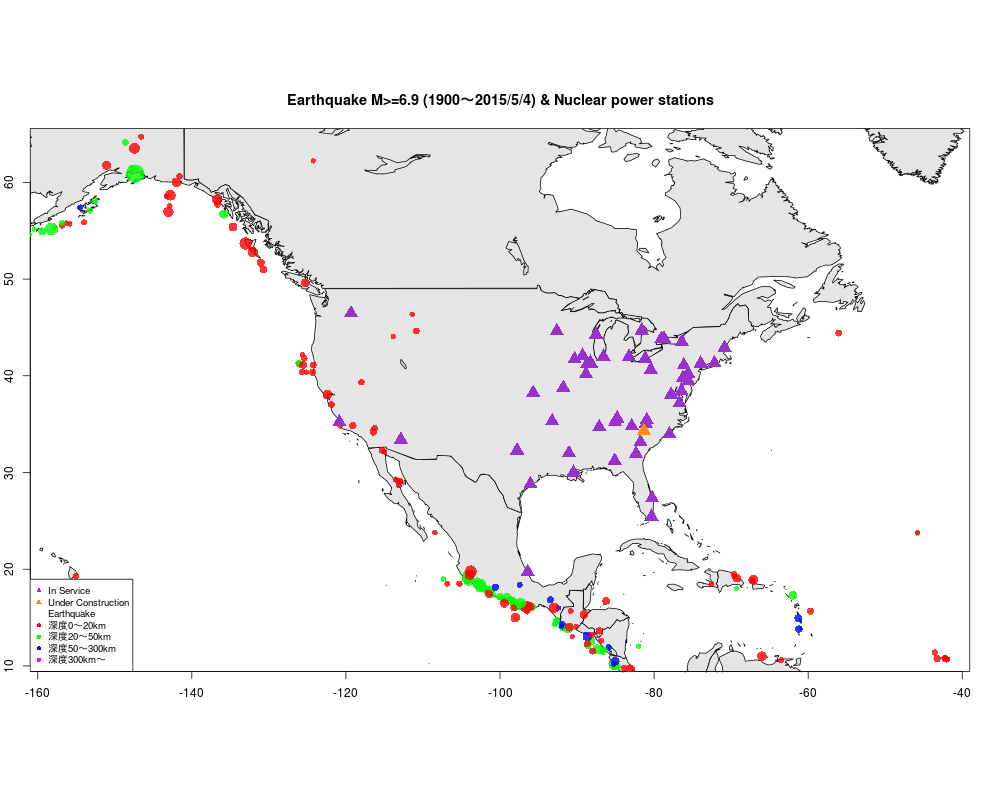
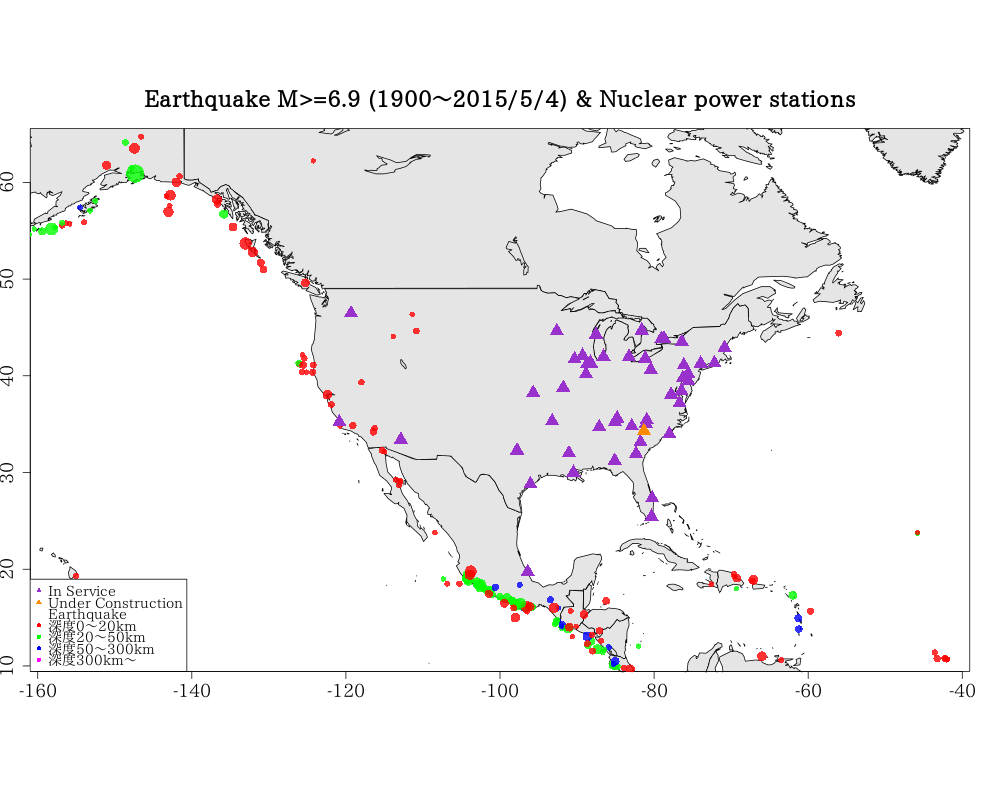
Site updated: 2015-05-05 15:26:43

diff --git a/2015/05/05/震源地と原子力発電所/index.html b/2015/05/05/震源地と原子力発電所/index.html
@@ -97,7 +97,7 @@
         <section id="main"><article id="post-震源地と原子力発電所" class="article article-type-post" itemscope itemprop="blogPost">
   <div class="article-meta">
     <a href="/2015/05/05/震源地と原子力発電所/" class="article-date">
-  <time datetime="2015-05-05T06:17:08.000Z" itemprop="datePublished">May 5 2015</time>
+  <time datetime="2015-05-05T06:25:41.000Z" itemprop="datePublished">May 5 2015</time>
 </a>
     
   <div class="article-category">
@@ -137,10 +137,10 @@
 <p><img src="/images/japaneq02.png" alt=""></p>
 <p>記事「震源地と原子力発電所2」にGMTを用いて範囲を狭く、M&gt;=6.0の地震をプロットした地図あり。</p>
 <p>表示する地域を変える </p>
-<figure class="highlight"><table><tr><td class="gutter"><pre><div class="line">1</div><div class="line">2</div><div class="line">3</div><div class="line">4</div><div class="line">5</div><div class="line">6</div><div class="line">7</div><div class="line">8</div><div class="line">9</div><div class="line">10</div><div class="line">11</div></pre></td><td class="code"><pre><div class="line"><span class="comment">#png("mapeq01.png",width=1000,height=800)</span></div><div class="line"><span class="built_in">map</span>(<span class="string">"worldHires"</span>,<span class="variable">xlim=</span>c(-<span class="number">160</span>,-<span class="number">40</span>),<span class="variable">ylim=</span>c(<span class="number">10</span>,<span class="number">65</span>),<span class="variable">col=</span><span class="string">"gray90"</span>,<span class="variable">fill=</span>TRUE)  </div><div class="line"><span class="built_in">map</span>.axes() </div><div class="line">points(eqdata$longitude,eqdata$latitude,<span class="variable">pch=</span><span class="number">16</span>,<span class="variable">cex =</span>eqdata$mag-<span class="number">5.9</span>, <span class="variable">col=</span>eqdata$col)  </div><div class="line">points(in_service$longitude,in_service$latitude,<span class="variable">pch=</span><span class="number">17</span>,<span class="variable">cex =</span><span class="number">2</span>, <span class="variable">col=</span><span class="string">"darkorchid"</span>)  </div><div class="line">points(under_construction$longitude,under_construction$latitude,<span class="variable">pch=</span><span class="number">17</span>,<span class="variable">cex =</span><span class="number">2</span>, <span class="variable">col=</span><span class="string">"darkorange"</span>)  </div><div class="line"><span class="comment">#points( -76.725177,40.153259,pch=4,cex=2,col="red")  #スリーマイル島</span></div><div class="line">title(<span class="variable">main=</span><span class="string">"Earthquake M&gt;=6.9 (1900～2015/5/4) & Nuclear power stations"</span>)   </div><div class="line">legend(<span class="string">"bottomleft"</span>,<span class="variable">legend =</span> c(<span class="string">"In Service"</span>,<span class="string">"Under Construction"</span>,<span class="string">"Earthquake"</span>,<span class="string">"深度0～20km"</span>,<span class="string">"深度20～50km"</span>,<span class="string">"深度50～300km"</span>,<span class="string">"深度300km～"</span>),  </div><div class="line"><span class="variable">cex=</span><span class="number">0.8</span>,<span class="variable">pch=</span>c(<span class="number">17</span>,<span class="number">17</span>,rep(<span class="number">16</span>,<span class="number">5</span>)),<span class="variable">col=</span>c(<span class="string">"darkorchid"</span>,<span class="string">"darkorange"</span>,<span class="string">"white"</span>,rgb(<span class="number">1</span>,<span class="number">0</span>,<span class="number">0</span>),rgb(<span class="number">0</span>,<span class="number">1</span>,<span class="number">0</span>),rgb(<span class="number">0</span>,<span class="number">0</span>,<span class="number">1</span>),rgb(<span class="number">1</span>,<span class="number">0</span>,<span class="number">1</span>)),<span class="variable">bg=</span><span class="string">"white"</span>)</div><div class="line"><span class="comment">#dev.off()</span></div></pre></td></tr></table></figure>
+<figure class="highlight"><table><tr><td class="gutter"><pre><div class="line">1</div><div class="line">2</div><div class="line">3</div><div class="line">4</div><div class="line">5</div><div class="line">6</div><div class="line">7</div><div class="line">8</div><div class="line">9</div><div class="line">10</div><div class="line">11</div><div class="line">12</div></pre></td><td class="code"><pre><div class="line"><span class="comment">#png("mapeq01.png",width=1000,height=800)</span></div><div class="line">par(<span class="variable">family=</span><span class="string">"Takao P明朝"</span>,<span class="variable">ps =</span> <span class="number">18</span>)</div><div class="line"><span class="built_in">map</span>(<span class="string">"worldHires"</span>,<span class="variable">xlim=</span>c(-<span class="number">160</span>,-<span class="number">40</span>),<span class="variable">ylim=</span>c(<span class="number">10</span>,<span class="number">65</span>),<span class="variable">col=</span><span class="string">"gray90"</span>,<span class="variable">fill=</span>TRUE)  </div><div class="line"><span class="built_in">map</span>.axes() </div><div class="line">points(eqdata$longitude,eqdata$latitude,<span class="variable">pch=</span><span class="number">16</span>,<span class="variable">cex =</span>eqdata$mag-<span class="number">5.9</span>, <span class="variable">col=</span>eqdata$col)  </div><div class="line">points(in_service$longitude,in_service$latitude,<span class="variable">pch=</span><span class="number">17</span>,<span class="variable">cex =</span><span class="number">2</span>, <span class="variable">col=</span><span class="string">"darkorchid"</span>)  </div><div class="line">points(under_construction$longitude,under_construction$latitude,<span class="variable">pch=</span><span class="number">17</span>,<span class="variable">cex =</span><span class="number">2</span>, <span class="variable">col=</span><span class="string">"darkorange"</span>)  </div><div class="line"><span class="comment">#points( -76.725177,40.153259,pch=4,cex=2,col="red")  #スリーマイル島</span></div><div class="line">title(<span class="variable">main=</span><span class="string">"Earthquake M&gt;=6.9 (1900～2015/5/4) & Nuclear power stations"</span>)   </div><div class="line">legend(<span class="string">"bottomleft"</span>,<span class="variable">legend =</span> c(<span class="string">"In Service"</span>,<span class="string">"Under Construction"</span>,<span class="string">"Earthquake"</span>,<span class="string">"深度0～20km"</span>,<span class="string">"深度20～50km"</span>,<span class="string">"深度50～300km"</span>,<span class="string">"深度300km～"</span>),  </div><div class="line"><span class="variable">cex=</span><span class="number">0.8</span>,<span class="variable">pch=</span>c(<span class="number">17</span>,<span class="number">17</span>,rep(<span class="number">16</span>,<span class="number">5</span>)),<span class="variable">col=</span>c(<span class="string">"darkorchid"</span>,<span class="string">"darkorange"</span>,<span class="string">"white"</span>,rgb(<span class="number">1</span>,<span class="number">0</span>,<span class="number">0</span>),rgb(<span class="number">0</span>,<span class="number">1</span>,<span class="number">0</span>),rgb(<span class="number">0</span>,<span class="number">0</span>,<span class="number">1</span>),rgb(<span class="number">1</span>,<span class="number">0</span>,<span class="number">1</span>)),<span class="variable">bg=</span><span class="string">"white"</span>)</div><div class="line"><span class="comment">#dev.off()</span></div></pre></td></tr></table></figure>
 
 <p><img src="/images/mapeq01.png" alt=""></p>
-<figure class="highlight"><table><tr><td class="gutter"><pre><div class="line">1</div><div class="line">2</div><div class="line">3</div><div class="line">4</div><div class="line">5</div><div class="line">6</div><div class="line">7</div><div class="line">8</div><div class="line">9</div><div class="line">10</div><div class="line">11</div></pre></td><td class="code"><pre><div class="line"><span class="comment">#png("mapeq02.png",width=1000,height=800)</span></div><div class="line"><span class="built_in">map</span>(<span class="string">"worldHires"</span>,<span class="variable">xlim=</span>c(-<span class="number">15</span>,<span class="number">105</span>),<span class="variable">ylim=</span>c(<span class="number">15</span>,<span class="number">70</span>),<span class="variable">col=</span><span class="string">"gray90"</span>,<span class="variable">fill=</span>TRUE)  </div><div class="line"><span class="built_in">map</span>.axes() </div><div class="line">points(eqdata$longitude,eqdata$latitude,<span class="variable">pch=</span><span class="number">16</span>,<span class="variable">cex =</span>eqdata$mag-<span class="number">5.9</span>, <span class="variable">col=</span>eqdata$col)  </div><div class="line">points(in_service$longitude,in_service$latitude,<span class="variable">pch=</span><span class="number">17</span>,<span class="variable">cex =</span><span class="number">2</span>, <span class="variable">col=</span><span class="string">"darkorchid"</span>)  </div><div class="line">points(under_construction$longitude,under_construction$latitude,<span class="variable">pch=</span><span class="number">17</span>,<span class="variable">cex =</span><span class="number">2</span>, <span class="variable">col=</span><span class="string">"darkorange"</span>)  </div><div class="line"><span class="comment">#points(30.233334,51.25,pch=4,cex=2,col="red")  #チェルノブイリ</span></div><div class="line">title(<span class="variable">main=</span><span class="string">"Earthquake M&gt;=6.9 (1900～2015/5/4) & Nuclear power stations"</span>)   </div><div class="line">legend(<span class="string">"topleft"</span>,<span class="variable">legend =</span> c(<span class="string">"In Service"</span>,<span class="string">"Under Construction"</span>,<span class="string">"Earthquake"</span>,<span class="string">"深度0～20km"</span>,<span class="string">"深度20～50km"</span>,<span class="string">"深度50～300km"</span>,<span class="string">"深度300km～"</span>),  </div><div class="line"><span class="variable">cex=</span><span class="number">0.8</span>,<span class="variable">pch=</span>c(<span class="number">17</span>,<span class="number">17</span>,rep(<span class="number">16</span>,<span class="number">5</span>)),<span class="variable">col=</span>c(<span class="string">"darkorchid"</span>,<span class="string">"darkorange"</span>,<span class="string">"white"</span>,rgb(<span class="number">1</span>,<span class="number">0</span>,<span class="number">0</span>),rgb(<span class="number">0</span>,<span class="number">1</span>,<span class="number">0</span>),rgb(<span class="number">0</span>,<span class="number">0</span>,<span class="number">1</span>),rgb(<span class="number">1</span>,<span class="number">0</span>,<span class="number">1</span>)),<span class="variable">bg=</span><span class="string">"white"</span>)</div><div class="line"><span class="comment">#dev.off()</span></div></pre></td></tr></table></figure>
+<figure class="highlight"><table><tr><td class="gutter"><pre><div class="line">1</div><div class="line">2</div><div class="line">3</div><div class="line">4</div><div class="line">5</div><div class="line">6</div><div class="line">7</div><div class="line">8</div><div class="line">9</div><div class="line">10</div><div class="line">11</div><div class="line">12</div></pre></td><td class="code"><pre><div class="line"><span class="comment">#png("mapeq02.png",width=1000,height=800)</span></div><div class="line">par(<span class="variable">family=</span><span class="string">"Takao P明朝"</span>,<span class="variable">ps =</span> <span class="number">18</span>)</div><div class="line"><span class="built_in">map</span>(<span class="string">"worldHires"</span>,<span class="variable">xlim=</span>c(-<span class="number">15</span>,<span class="number">105</span>),<span class="variable">ylim=</span>c(<span class="number">15</span>,<span class="number">70</span>),<span class="variable">col=</span><span class="string">"gray90"</span>,<span class="variable">fill=</span>TRUE)  </div><div class="line"><span class="built_in">map</span>.axes() </div><div class="line">points(eqdata$longitude,eqdata$latitude,<span class="variable">pch=</span><span class="number">16</span>,<span class="variable">cex =</span>eqdata$mag-<span class="number">5.9</span>, <span class="variable">col=</span>eqdata$col)  </div><div class="line">points(in_service$longitude,in_service$latitude,<span class="variable">pch=</span><span class="number">17</span>,<span class="variable">cex =</span><span class="number">2</span>, <span class="variable">col=</span><span class="string">"darkorchid"</span>)  </div><div class="line">points(under_construction$longitude,under_construction$latitude,<span class="variable">pch=</span><span class="number">17</span>,<span class="variable">cex =</span><span class="number">2</span>, <span class="variable">col=</span><span class="string">"darkorange"</span>)  </div><div class="line"><span class="comment">#points(30.233334,51.25,pch=4,cex=2,col="red")  #チェルノブイリ</span></div><div class="line">title(<span class="variable">main=</span><span class="string">"Earthquake M&gt;=6.9 (1900～2015/5/4) & Nuclear power stations"</span>)   </div><div class="line">legend(<span class="string">"topleft"</span>,<span class="variable">legend =</span> c(<span class="string">"In Service"</span>,<span class="string">"Under Construction"</span>,<span class="string">"Earthquake"</span>,<span class="string">"深度0～20km"</span>,<span class="string">"深度20～50km"</span>,<span class="string">"深度50～300km"</span>,<span class="string">"深度300km～"</span>),  </div><div class="line"><span class="variable">cex=</span><span class="number">0.8</span>,<span class="variable">pch=</span>c(<span class="number">17</span>,<span class="number">17</span>,rep(<span class="number">16</span>,<span class="number">5</span>)),<span class="variable">col=</span>c(<span class="string">"darkorchid"</span>,<span class="string">"darkorange"</span>,<span class="string">"white"</span>,rgb(<span class="number">1</span>,<span class="number">0</span>,<span class="number">0</span>),rgb(<span class="number">0</span>,<span class="number">1</span>,<span class="number">0</span>),rgb(<span class="number">0</span>,<span class="number">0</span>,<span class="number">1</span>),rgb(<span class="number">1</span>,<span class="number">0</span>,<span class="number">1</span>)),<span class="variable">bg=</span><span class="string">"white"</span>)</div><div class="line"><span class="comment">#dev.off()</span></div></pre></td></tr></table></figure>
 
 <p><img src="/images/mapeq02.png" alt=""></p>
 <p>1900年から2015年5月4日までに起こったM6.9以上の地震地に近い原子力発電所のランキング</p>

diff --git a/archives/2015/05/index.html b/archives/2015/05/index.html
@@ -95,7 +95,7 @@
     <article id="post-震源地と原子力発電所" class="article article-type-post" itemscope itemprop="blogPost">
   <div class="article-meta">
     <a href="/2015/05/05/震源地と原子力発電所/" class="article-date">
-  <time datetime="2015-05-05T06:17:08.000Z" itemprop="datePublished">May 5 2015</time>
+  <time datetime="2015-05-05T06:25:41.000Z" itemprop="datePublished">May 5 2015</time>
 </a>
     
   <div class="article-category">

diff --git a/archives/2015/index.html b/archives/2015/index.html
@@ -95,7 +95,7 @@
     <article id="post-震源地と原子力発電所" class="article article-type-post" itemscope itemprop="blogPost">
   <div class="article-meta">
     <a href="/2015/05/05/震源地と原子力発電所/" class="article-date">
-  <time datetime="2015-05-05T06:17:08.000Z" itemprop="datePublished">May 5 2015</time>
+  <time datetime="2015-05-05T06:25:41.000Z" itemprop="datePublished">May 5 2015</time>
 </a>
     
   <div class="article-category">

diff --git a/archives/index.html b/archives/index.html
@@ -95,7 +95,7 @@
     <article id="post-震源地と原子力発電所" class="article article-type-post" itemscope itemprop="blogPost">
   <div class="article-meta">
     <a href="/2015/05/05/震源地と原子力発電所/" class="article-date">
-  <time datetime="2015-05-05T06:17:08.000Z" itemprop="datePublished">May 5 2015</time>
+  <time datetime="2015-05-05T06:25:41.000Z" itemprop="datePublished">May 5 2015</time>
 </a>
     
   <div class="article-category">

diff --git a/categories/R/index.html b/categories/R/index.html
@@ -95,7 +95,7 @@
     <article id="post-震源地と原子力発電所" class="article article-type-post" itemscope itemprop="blogPost">
   <div class="article-meta">
     <a href="/2015/05/05/震源地と原子力発電所/" class="article-date">
-  <time datetime="2015-05-05T06:17:08.000Z" itemprop="datePublished">May 5 2015</time>
+  <time datetime="2015-05-05T06:25:41.000Z" itemprop="datePublished">May 5 2015</time>
 </a>
     
   <div class="article-category">

diff --git a/index.html b/index.html
@@ -95,7 +95,7 @@
     <article id="post-震源地と原子力発電所" class="article article-type-post" itemscope itemprop="blogPost">
   <div class="article-meta">
     <a href="/2015/05/05/震源地と原子力発電所/" class="article-date">
-  <time datetime="2015-05-05T06:17:08.000Z" itemprop="datePublished">May 5 2015</time>
+  <time datetime="2015-05-05T06:25:41.000Z" itemprop="datePublished">May 5 2015</time>
 </a>
     
   <div class="article-category">

diff --git a/tags/オープンデータ/index.html b/tags/オープンデータ/index.html
@@ -95,7 +95,7 @@
     <article id="post-震源地と原子力発電所" class="article article-type-post" itemscope itemprop="blogPost">
   <div class="article-meta">
     <a href="/2015/05/05/震源地と原子力発電所/" class="article-date">
-  <time datetime="2015-05-05T06:17:08.000Z" itemprop="datePublished">May 5 2015</time>
+  <time datetime="2015-05-05T06:25:41.000Z" itemprop="datePublished">May 5 2015</time>
 </a>
     
   <div class="article-category">
